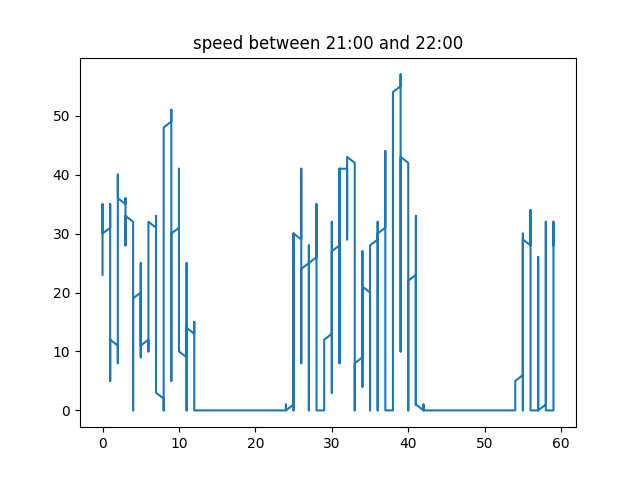
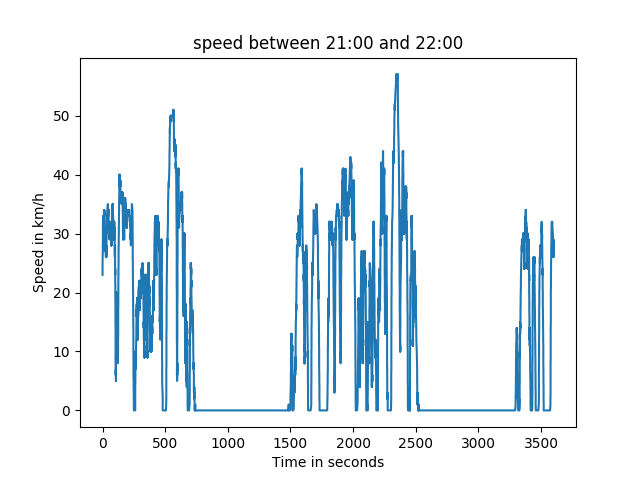
added acceleration and braking features and geofencing

diff --git a/picket.py b/picket.py
@@ -1,0 +1,203 @@
+# Picket. Calculate if a point is inside a fence.
+# Copyright (C) 2017-2018  Sam Drew
+
+# This program is free software: you can redistribute it and/or modify
+# it under the terms of the GNU General Public License as published by
+# the Free Software Foundation, either version 3 of the License, or
+# (at your option) any later version.
+
+# This program is distributed in the hope that it will be useful,
+# but WITHOUT ANY WARRANTY; without even the implied warranty of
+# MERCHANTABILITY or FITNESS FOR A PARTICULAR PURPOSE.  See the
+# GNU General Public License for more details.
+
+# You should have received a copy of the GNU General Public License
+# along with this program.  If not, see <http://www.gnu.org/licenses/>.
+
+# Class to define a fence.
+class Fence:
+    """
+    A Fence object is primarily a way of containing a list of points that form
+    a boundary, and providing the ability to add / change points in the fence.
+    """
+
+    points = None
+
+    def __init__(self):
+        self.points = []
+
+    def add_point(self, point):
+        # Add new point to points list.
+        self.points.append(point)
+
+    def list_points(self):
+        return(self.points)
+
+    def check_point(self, point, debug = False):
+        """
+        check_point()  checks if a given point lies inside a given fence polygon.
+        Parameters are given as an instance of the fence class and a given point as
+        a, tuple of (x, y).
+        """
+        def check_in_bounds(point, line_eqns_index):
+            """
+            check_in_bounds() checks if a supplied point is within the upper and
+            lower x & y bounds of the points that form a given line.
+
+            Takes the point to be checked and the index that points to which line
+            is being tested. Knowing the location of the line equation in its list
+            we can find the points that it is formed from.
+
+            Returns true if the point is within bound and false if it's outside
+            bounds.
+            """
+            withinX = False;
+            withinY = False;
+
+            pointA = self.points[line_eqns_index]
+            # If the index is pointing to the last member of the list, the line
+            # is made of points that wrap around back to the start of the points
+            # list.
+            if line_eqns_index + 1 == len(self.points):
+                pointB = self.points[0]
+            else:
+                pointB = self.points[line_eqns_index + 1]
+
+            # print(point)
+            # print(pointA, pointB)
+            # Check if point[x] is within pointA[x] and pointB[x].
+            if (pointA[0] >= pointB[0]):
+                # pointA is more positive than pointB so check if point[x] is
+                # between these.
+                if (point[0] <= pointA[0] and point[0] >= pointB[0]):
+                    withinX = True
+            elif (pointA[0] <= pointB[0]):
+                # pointA is less positive than pointB.
+                if (point[0] >= pointA[0] and point[0] <= pointB[0]):
+                    withinX = True
+
+            # Check if point[y] is within pointA[y] and pointB[y].
+            if (pointA[1] >= pointB[1]):
+                # print("pointA[1] >= pointB[1]")
+                # pointA is more positive than pointB so check if point[y] is
+                # between these.
+                if (point[1] <= pointA[1] and point[1] >= pointB[1]):
+                    withinY = True
+            elif (pointA[1] <= pointB[1]):
+                # print("pointA[1] <= pointB[1]")
+                # pointA is less positive than pointB.
+                if (point[1] >= pointA[1] and point[1] <= pointB[1]):
+                    withinY = True
+
+            # print(withinX, withinY)
+
+            if withinX and withinY:
+                return True
+            else:
+                return False
+
+        # Find numbe of intersections of the fence with the point horizon line on
+        # either side of the point.
+        def find_intersect(line, point_horizon_eqn):
+            """
+            find_intersect() returns a coordinate if an intersection exists, and
+            False if not.
+
+            Uses Cramers rule to work it out.
+            """
+            # Calculate the determinant.
+            D  = line[0] * point_horizon_eqn[1] - line[1] * point_horizon_eqn[0]
+            Dx = line[2] * point_horizon_eqn[1] - line[1] * point_horizon_eqn[2]
+            Dy = line[0] * point_horizon_eqn[2] - line[2] * point_horizon_eqn[0]
+            if D != 0:
+                x = Dx / D
+                y = Dy / D
+                return (x, y)
+            else:
+                return False
+
+        # First, find the horozontal line equation that passes through the point.
+        # Using the Ax + By = C fomat, express as a tuple of (A, B, C).
+        point_horizon_eqn = (0, 1, point[1])
+
+        # Next, form equations with the list of points given by the Fence object.
+        if len(self.points) < 3:
+            raise Exception("The supplied fence has not enough (< 3) points!")
+        # Form list of line equations. Last in list will circle back to first point.
+        # E.g. self.points = [(A), (B), (C)], line_eqns = [(AB), (BC), (CA)].
+        # Where each element in the line_eqns list is a tuple of (m, c).
+        line_eqns = []
+        for point_index in range(len(self.points)):
+            point1 = self.points[point_index]
+            # If point1 is the last in the list, point2 is the first element of the
+            # list.
+            if point_index == (len(self.points) - 1):
+                point2 = self.points[0]
+            else:
+                point2 = self.points[point_index + 1]
+            # Check if vertical or horizontal line first.
+            if point1[1] == point2[1]:
+                # Hoizontal
+                a = 0
+                b = 1
+                c = point1[1]
+                if debug == True:
+                    print("Formed equation", str(a) + "x+" + str(b) + "y=" + str(c), "from points:", point1, "and", point2)
+                line_eqns.append((a, b, c))
+            elif point1[0] == point2[0]:
+                # Vertical
+                a = 1
+                b = 0
+                c = point1[0]
+                if debug == True:
+                    print("Formed equation", str(a) + "x+" + str(b) + "y=" + str(c), "from points:", point1, "and", point2)
+                line_eqns.append((a, b, c))
+            else:
+                # Non vertical or hoizontal line.
+                a = (-1 * ((point2[1] - point1[1]) / (point2[0] - point1[0])))
+                b = 1
+                # c = y - ax
+                c = (point1[1] + (a * point1[0]))
+                if debug == True:
+                    print("Formed equation", str(a) + "x+" + str(b) + "y=" + str(c), "from points:", point1, "and", point2)
+                line_eqns.append((a, b, c))
+
+        if debug == True:
+            print("\n")
+            print("All equations formed (in order):", line_eqns)
+            print("Finding intersections...\n")
+            print("\nx bounds are:", str(self.max_x), str(self.min_x), "y bounds:", str(self.max_y), str(self.min_y))
+        intersection_points_left = []
+        intersection_points_right = []
+        for line_index in range(0, len(line_eqns)):
+            intersection_point = find_intersect(line_eqns[line_index], point_horizon_eqn)
+            if debug == True:
+                print("Intersection point between lines:", line_eqns[line_index], "&", point_horizon_eqn, "is:", intersection_point)
+            if intersection_point != False:
+                if intersection_point[0] < point[0]:
+                    # Intersection point x value is less than point x value.
+                    if (intersection_point not in intersection_points_left) and check_in_bounds(intersection_point, line_index) == True:
+                        intersection_points_left.append(intersection_point)
+                else:
+                    # Intersection point x value is greater than point x value.
+                    if (intersection_point not in intersection_points_right) and check_in_bounds(intersection_point, line_index) == True:
+                        intersection_points_right.append(intersection_point)
+
+        # Check if the number of intersections to the left and right are odd.
+        if len(intersection_points_left) > 0 and len(intersection_points_right) > 0:
+            if debug == True:
+                print("\n")
+                print((str(len(intersection_points_left))), "intersection points to the left.")
+                print((str(len(intersection_points_right))), "intersection points to the right.")
+            if ((len(intersection_points_left) % 2) == 1) and ((len(intersection_points_right) % 2) == 1):
+                # Both have odd intersection counts, so the point is in the Fence.
+                return(True)
+            else:
+                # print(intersection_points_left, intersection_points_right)
+                return(False)
+        else:
+            # print(intersection_points_left, intersection_points_right)
+            return(False)
+
+def convertDMSToDD(degrees, minutes, seconds):
+    return(degrees + (minutes / 60) + (seconds / 3600))

diff --git a/initialplot.py b/initialplot.py
@@ -1,50 +1,35 @@
-import csv
+import pandas as pd
 import matplotlib.pyplot as plt
-from datetime import datetime, timezone
-import numpy as np
-from scipy.signal import savgol_filter
+
+start_date = '2017-01-02'
+end_date = '2017-01-02'
+set_hour = 7
+
+# Timestep to calculate if vehicle is accelerating/braking in seconds
+delta_accel = 4
+delta_timestep = 1
 
 
-speed16 = []
-speed19 = []
-time16 = []
-time19 = []
+df = pd.read_csv('Data/proov_001/speed.csv')
+df['time'] = pd.to_datetime(df['time'], unit='ms')
+df['date'] = df['time'].dt.date
+df['hour'] = df['time'].dt.hour
+df['minute'] = df['time'].dt.minute
+df['second'] = df['time'].dt.second
+df = df.drop('time', axis=1)
+df['minute_in_hours'] = df['minute'] * 60 + df['second']
+df['accelerating'] = (df['speed'] - df['speed'].shift(-delta_timestep * 5)) < -delta_accel
+df['breaking'] = (df['speed'] - df['speed'].shift(-delta_timestep * 5)) > delta_accel
 
+df_day_sample = df[307:75676].reset_index(drop=True)
+df_hour_sample = df_day_sample.loc[df_day_sample['hour'] == set_hour]
 
-with open('../Data/proov_001/speed.csv') as csv_file:
-    csv_reader = csv.reader(csv_file, delimiter=',')
-    line_count = 0
-    init_day = 0
-    for row in csv_reader:
-        if line_count == 0:
-            line_count += 1
-            continue
-        elif line_count == 1:
-            init_day = datetime.utcfromtimestamp(int(row[0])/1000.)
-            init_day = init_day.day
-            print(datetime.utcfromtimestamp(int(row[0])/1000.))
-        line_count += 1
-        dateandtime = datetime.utcfromtimestamp(int(row[0])/1000.)
-        # print(dateandtime)
-        if dateandtime.day > 5:
-            break
-        if dateandtime.hour < 16:
-            continue
-        elif dateandtime.hour == 21 and dateandtime.day == 5:
-            speed16.append(np.round(float(row[1]),2))
-            time16.append(dateandtime.minute)
-        elif dateandtime.hour == 17:
-            speed19.append(np.round(float(row[1]),2))
-            time19.append(dateandtime.minute)
+# import pdb; pdb.set_trace()
 
-
-
-# print(time[/], time[-1])
-
-# smoothed = savgol_filter(speed, 1001, 3)
-# plt.plot(speed)
-plt.plot(time16, speed16)
-plt.title("speed between 21:00 and 22:00")
-plt.savefig('speed21.png')
+plt.plot(df_hour_sample['minute_in_hours'], df_hour_sample['speed'])
+plt.title("speed between %d and %d" % (set_hour, set_hour+1))
+plt.xlabel("Time in seconds")
+plt.ylabel("Speed in km/h")
+plt.savefig('speed_plot.png')
 
 plt.show()

diff --git a/get_gps.py b/get_gps.py
@@ -1,0 +1,19 @@
+import pandas as pd
+from picket import Fence
+
+geoFence = Fence()
+points = [(52.0874328613281, 5.10679960250855),
+          (52.0881729125977, 5.11815786361694),
+          (52.0887107849121, 5.11708736419678)]
+
+for point in points:
+    geoFence.add_point(point)
+
+files = ['Data/proov_001/locations.csv']
+
+for file in files:
+    df = pd.read_csv(file, usecols=['lat', 'lon'])
+    for _, row in df.iterrows():
+        point = (row['lat'], row['lon'])
+        if geoFence.check_point(point):
+
